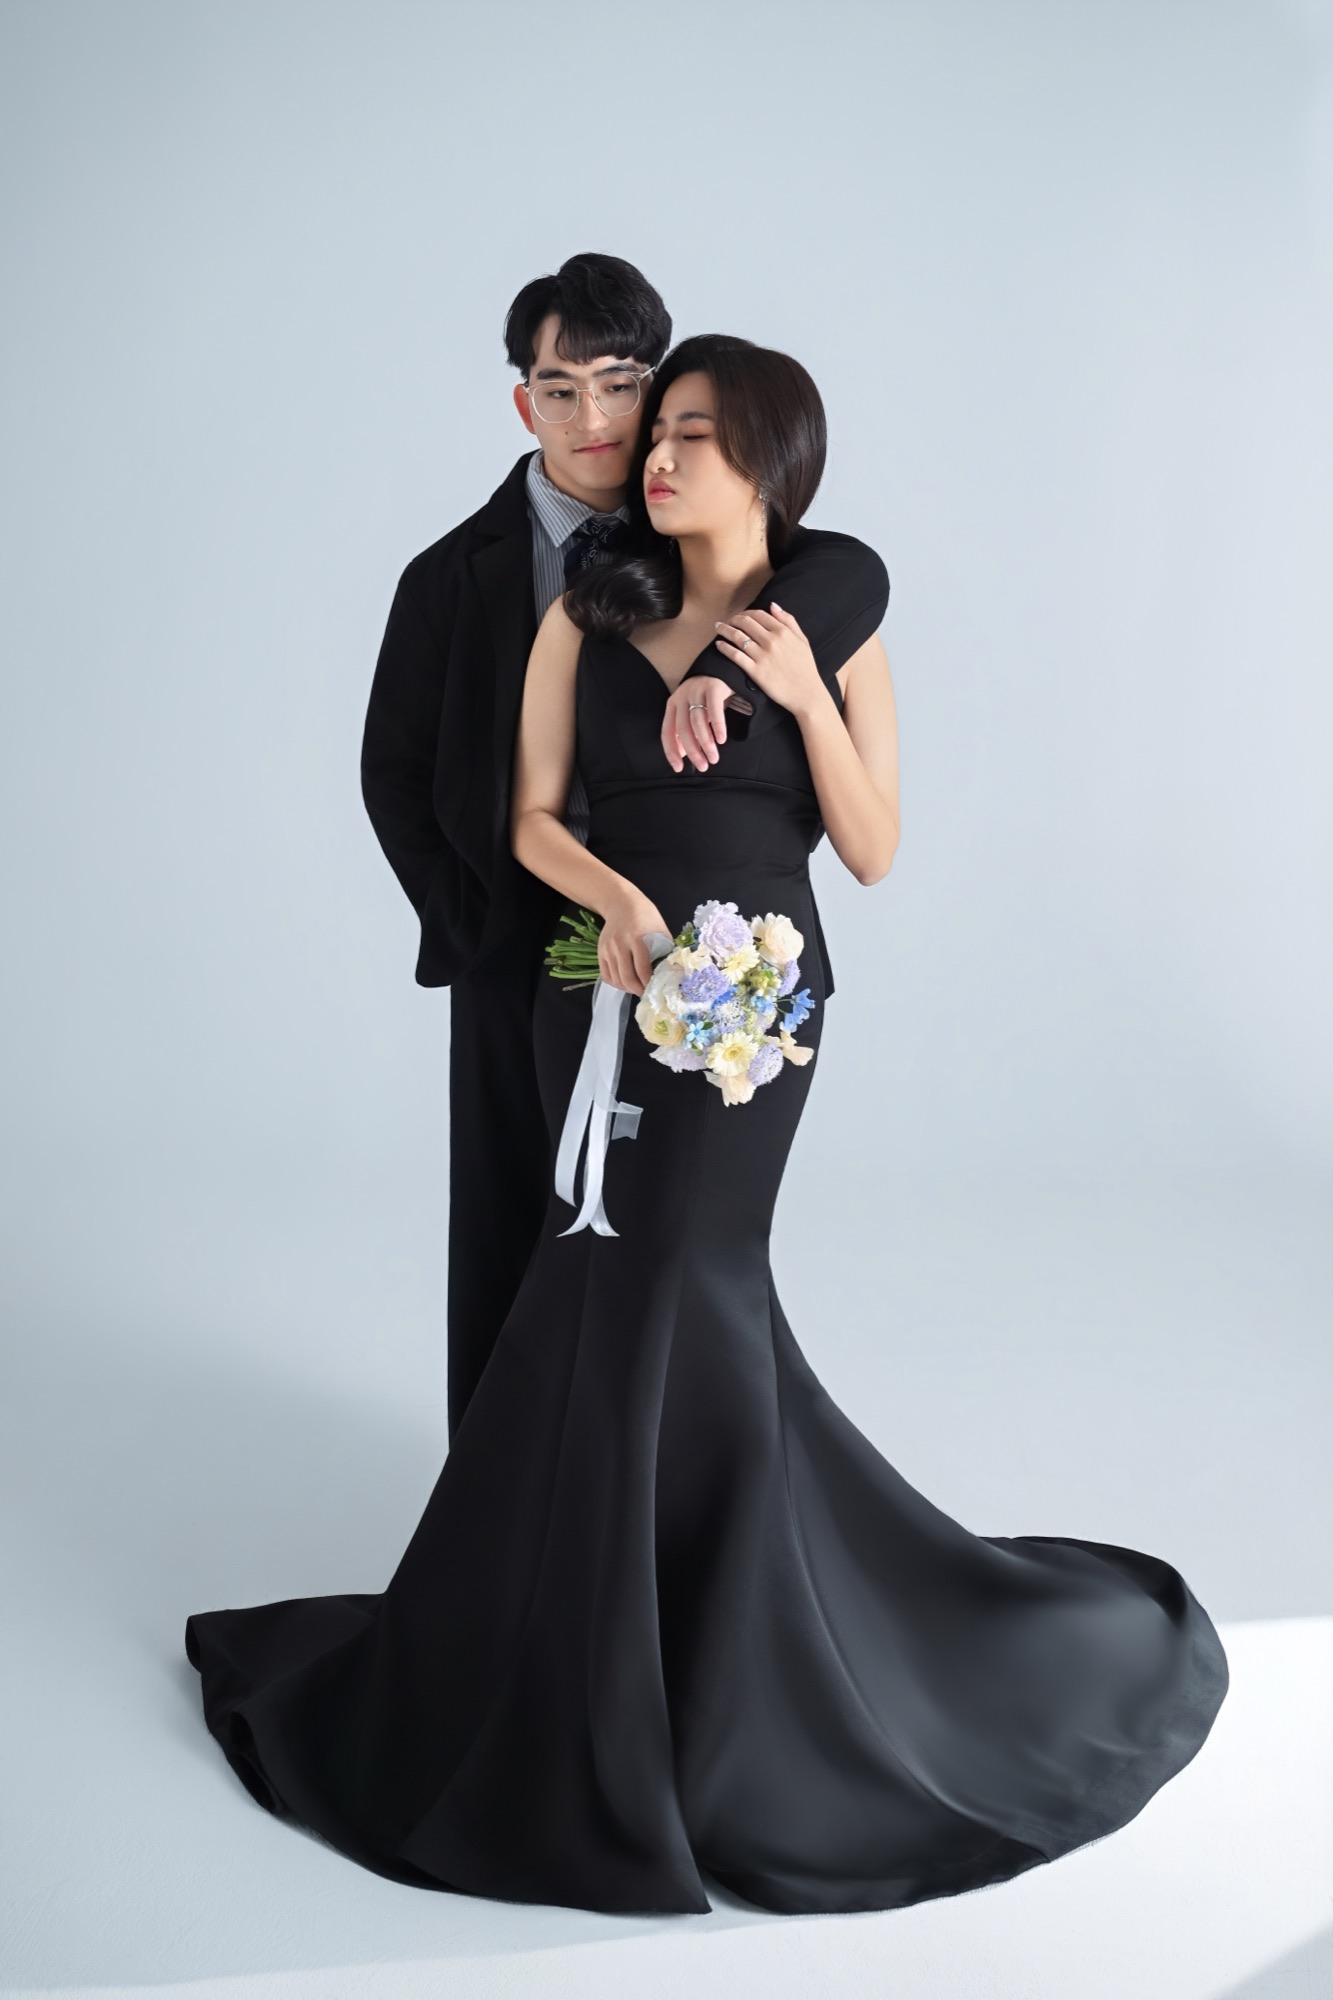
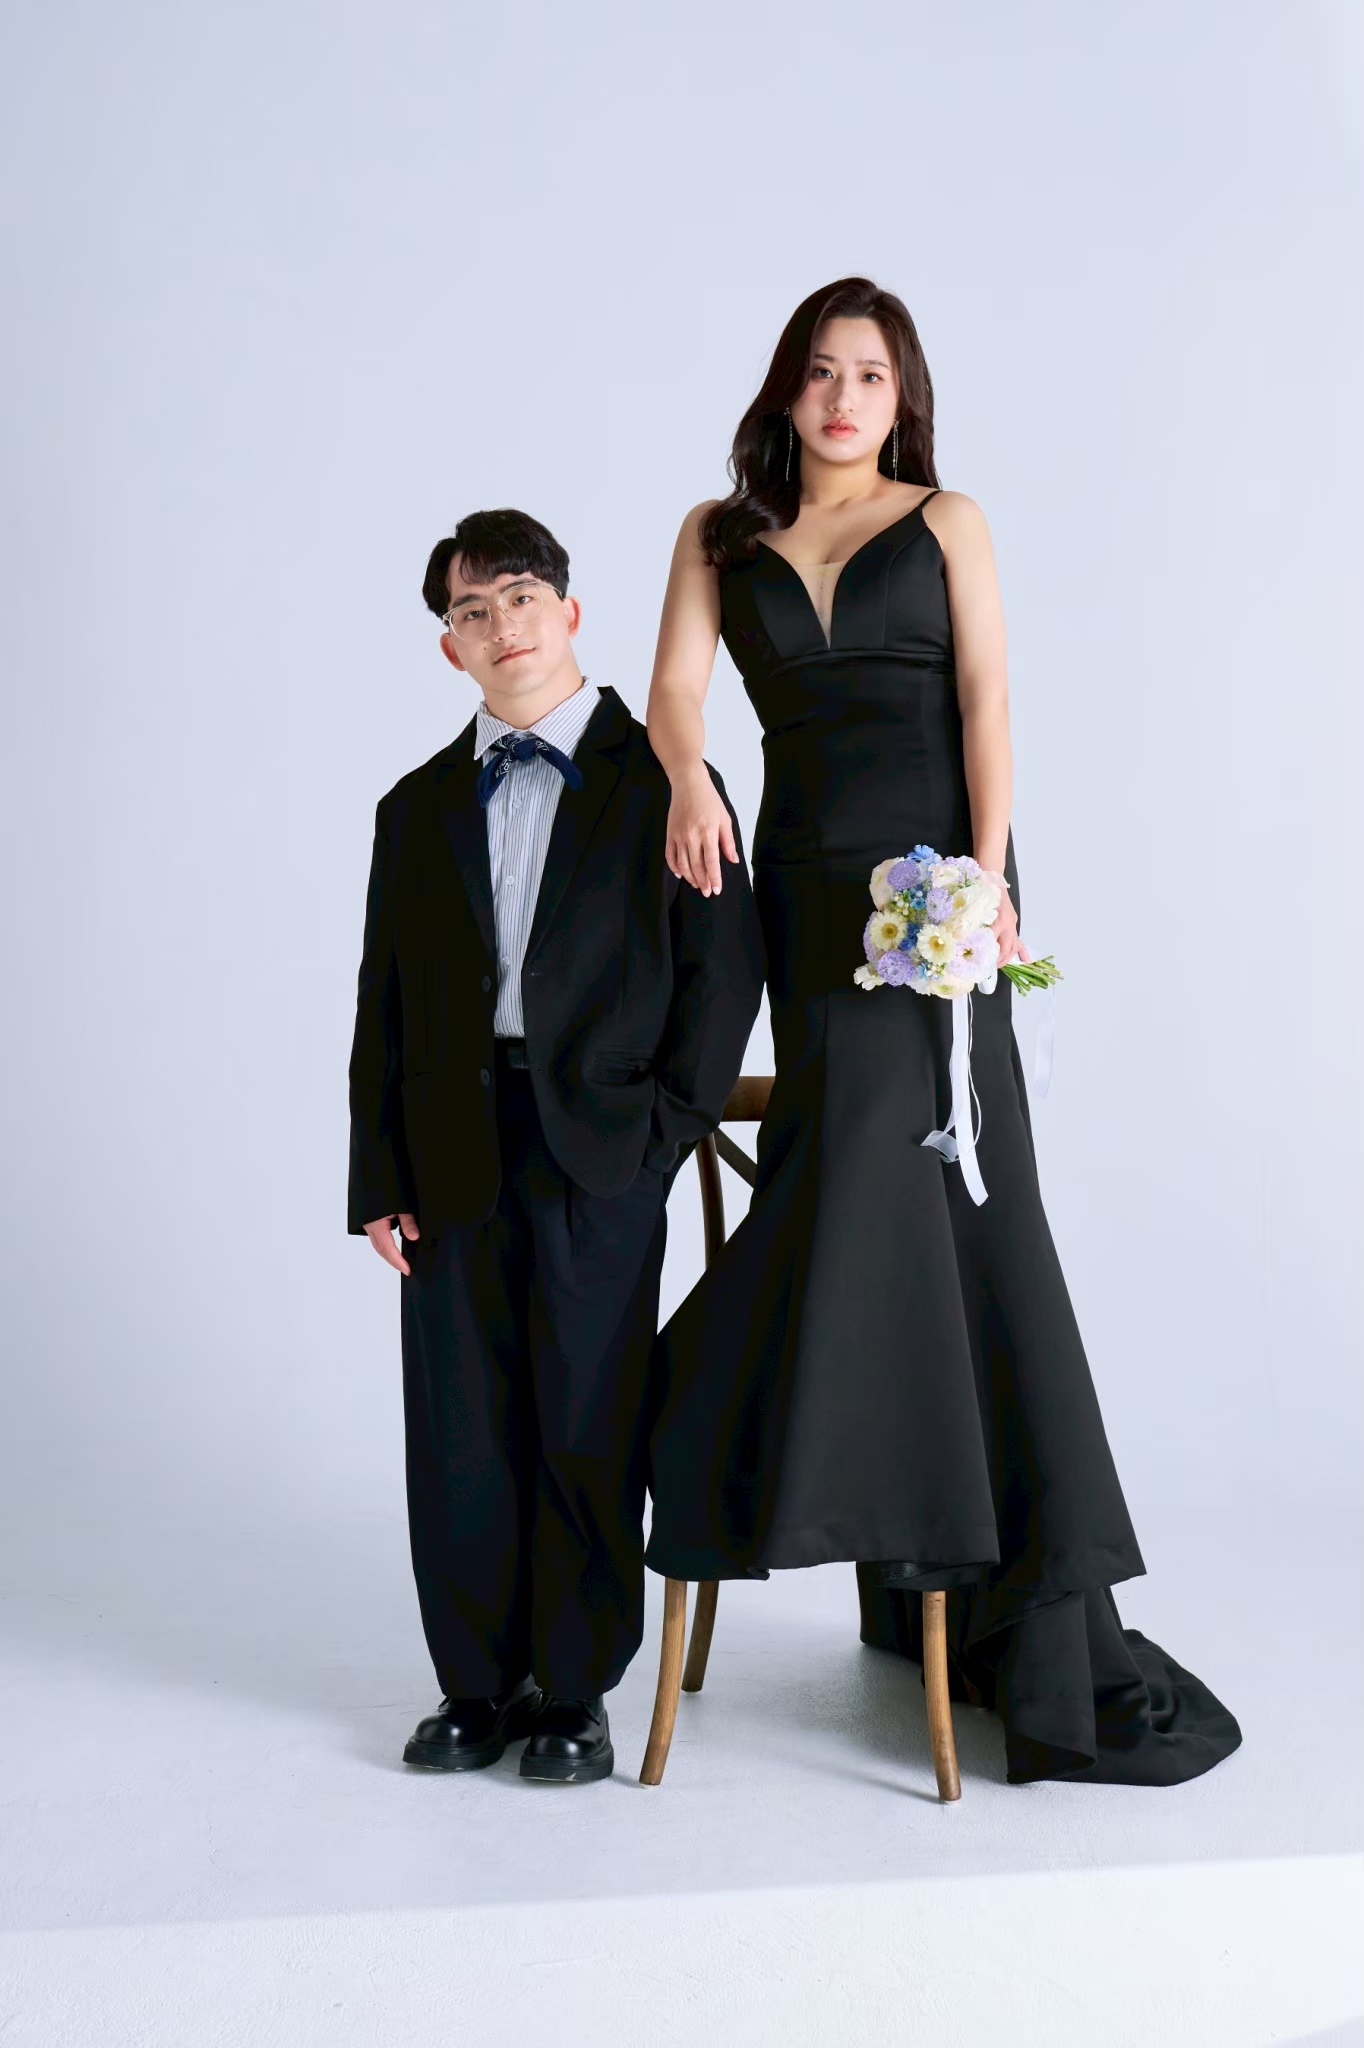
Trim gallery to 3 photos, refresh photo-06, new English tagline
- Gallery now shows only the featured photo (04), the candid bubble
  shot (02), and the swapped-in couple studio portrait (06) — grid
  layout already collapses cleanly to 2 tiles beside the featured
  banner with just 3 items, no CSS restructuring needed.
- photo-06 was replaced with a new full-body studio shot; added
  object-position to keep both faces in frame under the 1:1 square
  crop (the old close-embrace photo didn't need this, the new
  full-body composition does).
- Removed photo-01/03/05 (no longer referenced).
- Gallery lead text replaced with an English tagline about when
  their story started.

diff --git a/index.html b/index.html
@@ -18,7 +18,7 @@
 <link rel="preconnect" href="https://fonts.gstatic.com" crossorigin>
 <link href="https://fonts.googleapis.com/css2?family=Noto+Serif+TC:wght@400;500;600;700&family=Noto+Sans+TC:wght@300;400;500;700&family=Cormorant+Garamond:ital,wght@0,400;0,500;0,600;1,400&display=swap" rel="stylesheet">
 
-<link rel="stylesheet" href="css/style.css?v=7">
+<link rel="stylesheet" href="css/style.css?v=8">
 </head>
 <body>
 <a class="skip-link" href="#main">跳到主要內容</a>
@@ -106,7 +106,7 @@
     <div class="section-head reveal">
       <span class="eyebrow">Moments</span>
       <h2 class="section-head__title" id="gallery-heading">我們的故事</h2>
-      <p class="section-head__lead">婚紗照｜每一張，都是我們故事的一部分</p>
+      <p class="section-head__lead">Our story began 2018.06.01 — and it continues still.</p>
     </div>
 
     <!-- 換圖方式：把 figure 內的 img 換成新照片，保留相同容器 class 與 aspect-ratio，
@@ -119,16 +119,7 @@
         <img class="gallery-item__img" src="assets/photos/photo-02.jpg" alt="蔡梵志與彭湘晴在草原上開心地吹泡泡" loading="lazy">
       </figure>
       <figure class="gallery-item reveal" style="--i:2">
-        <img class="gallery-item__img" src="assets/photos/photo-06.jpg" alt="蔡梵志與彭湘晴身穿黑色禮服深情依偎" loading="lazy">
-      </figure>
-      <figure class="gallery-item reveal" style="--i:3">
-        <img class="gallery-item__img" src="assets/photos/photo-05.jpg" alt="蔡梵志與彭湘晴在綠色草坡上，新娘白紗優雅垂落" loading="lazy">
-      </figure>
-      <figure class="gallery-item reveal" style="--i:4">
-        <img class="gallery-item__img" src="assets/photos/photo-01.jpg" alt="新娘彭湘晴身穿酒紅色澎裙婚紗獨照" loading="lazy">
-      </figure>
-      <figure class="gallery-item reveal" style="--i:5">
-        <img class="gallery-item__img" src="assets/photos/photo-03.jpg" alt="新郎蔡梵志身穿黑色西裝獨照" loading="lazy">
+        <img class="gallery-item__img" src="assets/photos/photo-06.jpg" alt="蔡梵志與彭湘晴身穿黑色禮服，俏皮地倚著木椅合影" loading="lazy">
       </figure>
     </div>
   </div>

diff --git a/css/style.css b/css/style.css
@@ -315,7 +315,7 @@ section { padding-block: var(--space-2xl); position: relative; }
 .gallery-item__img { display: block; width: 100%; height: 100%; object-fit: cover;
   border-radius: var(--radius-lg); transition: transform .6s ease; aspect-ratio: 3/4; }
 .gallery-item:nth-child(1) .gallery-item__img { aspect-ratio: 4/5; }
-.gallery-item:nth-child(3) .gallery-item__img { aspect-ratio: 1/1; }
+.gallery-item:nth-child(3) .gallery-item__img { aspect-ratio: 1/1; object-position: center 25%; }
 .gallery-item:hover .gallery-item__img { transform: scale(1.04); }
 
 @media (min-width: 900px) {
